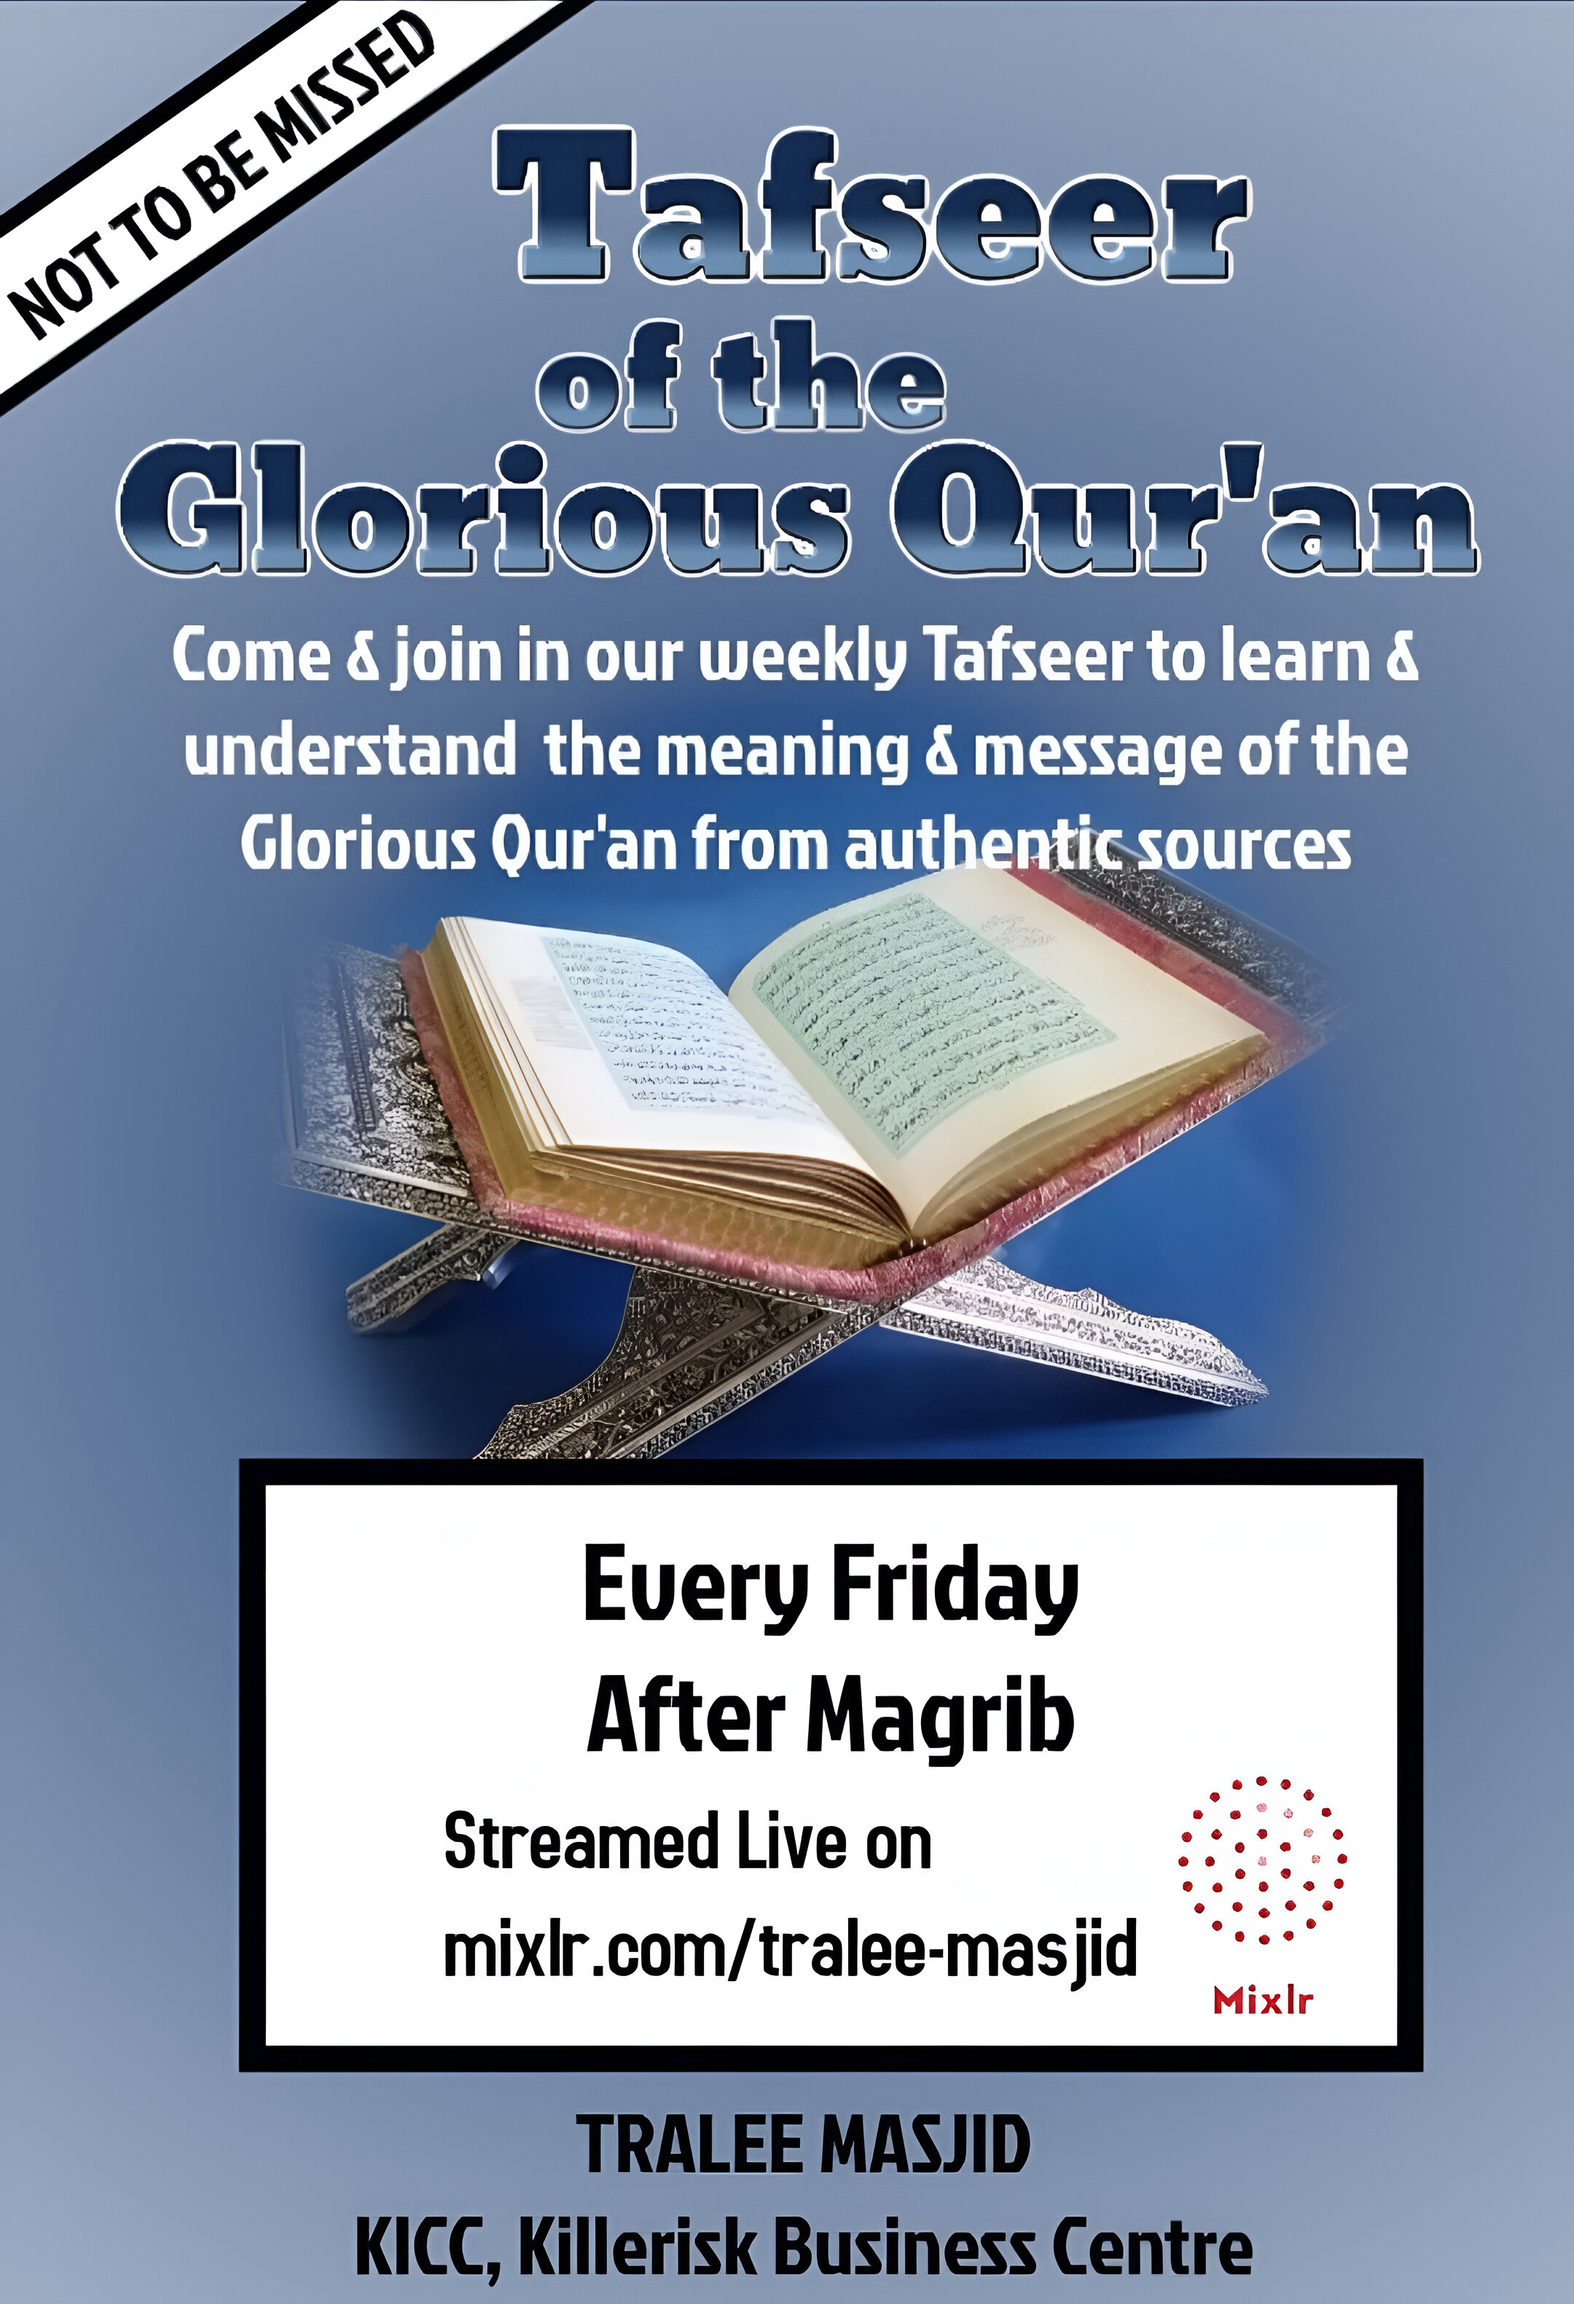
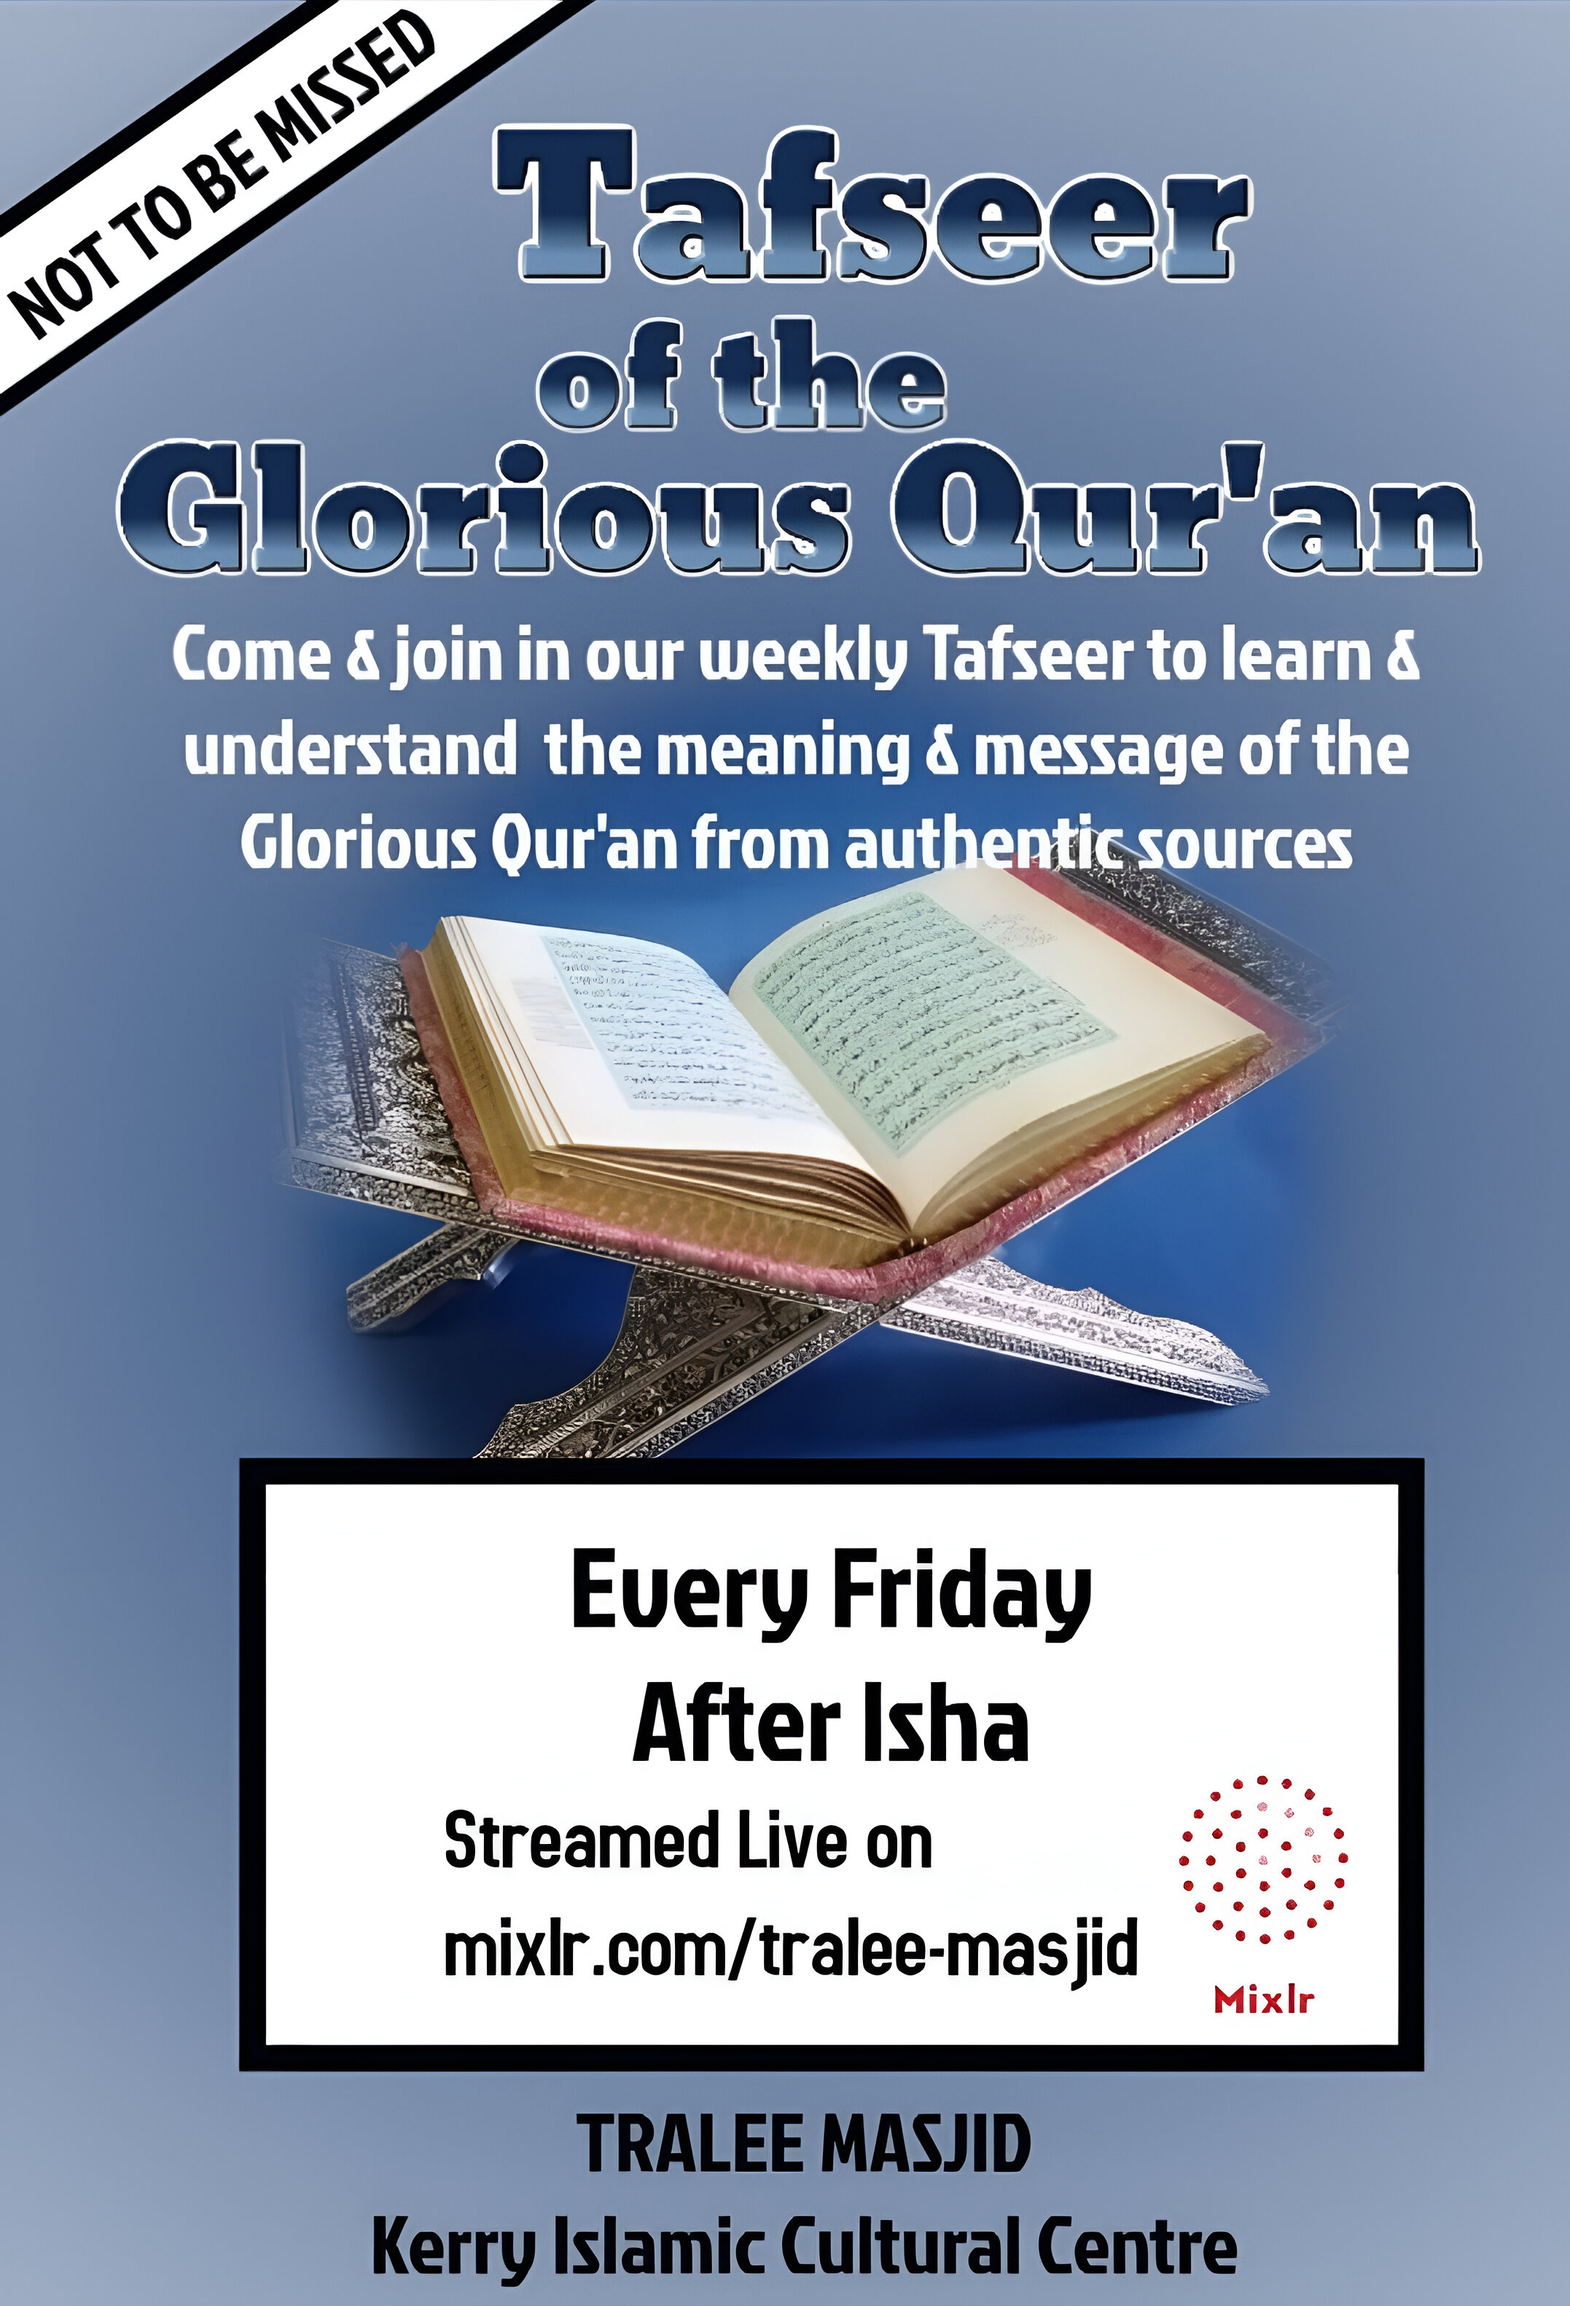
TAFSEER AFTER ISHA

diff --git a/static/js/announcements.js b/static/js/announcements.js
@@ -15,7 +15,7 @@ var announcements = {
   },
 
   friday_tafseer: function () {
-    return "TAFSEER OF THE QUR'AN • SURAH QAAF • FRIDAY AFTER MAGRIB";
+    return "TAFSEER OF THE QUR'AN • SURAH DHARIYAAT • FRIDAY AFTER ISHA";
   },
 
   clock_go_forward: function () {
